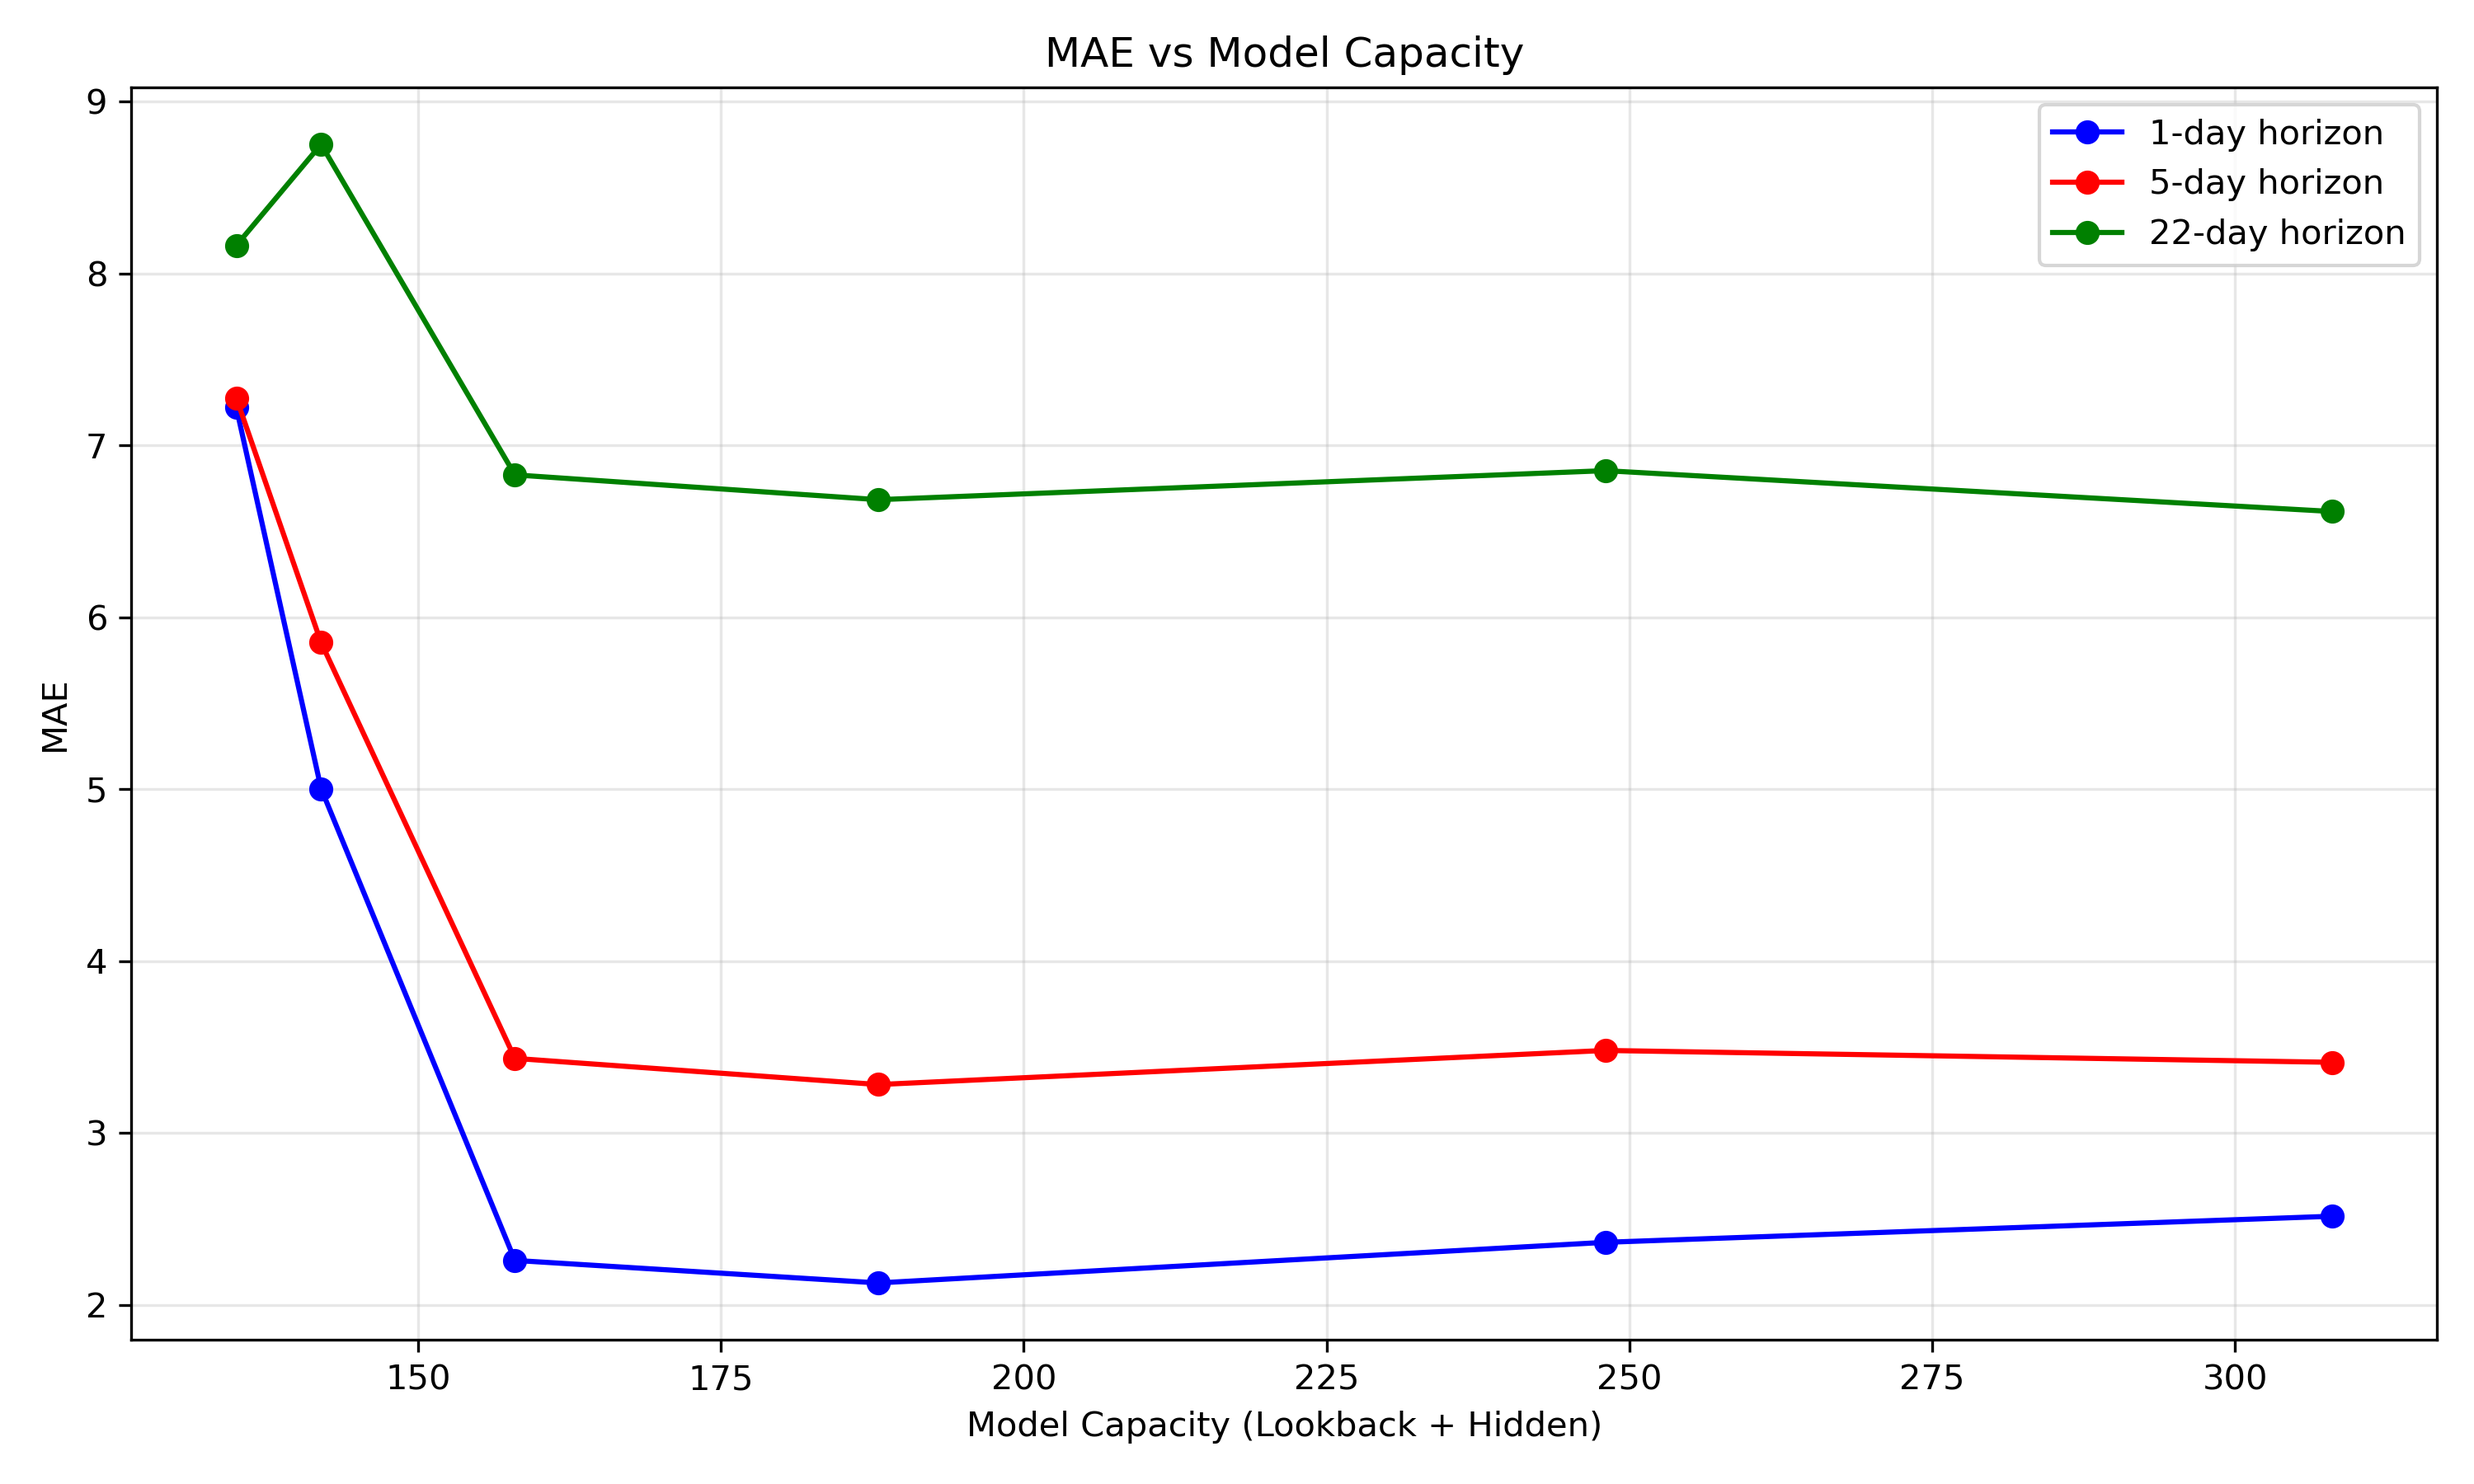
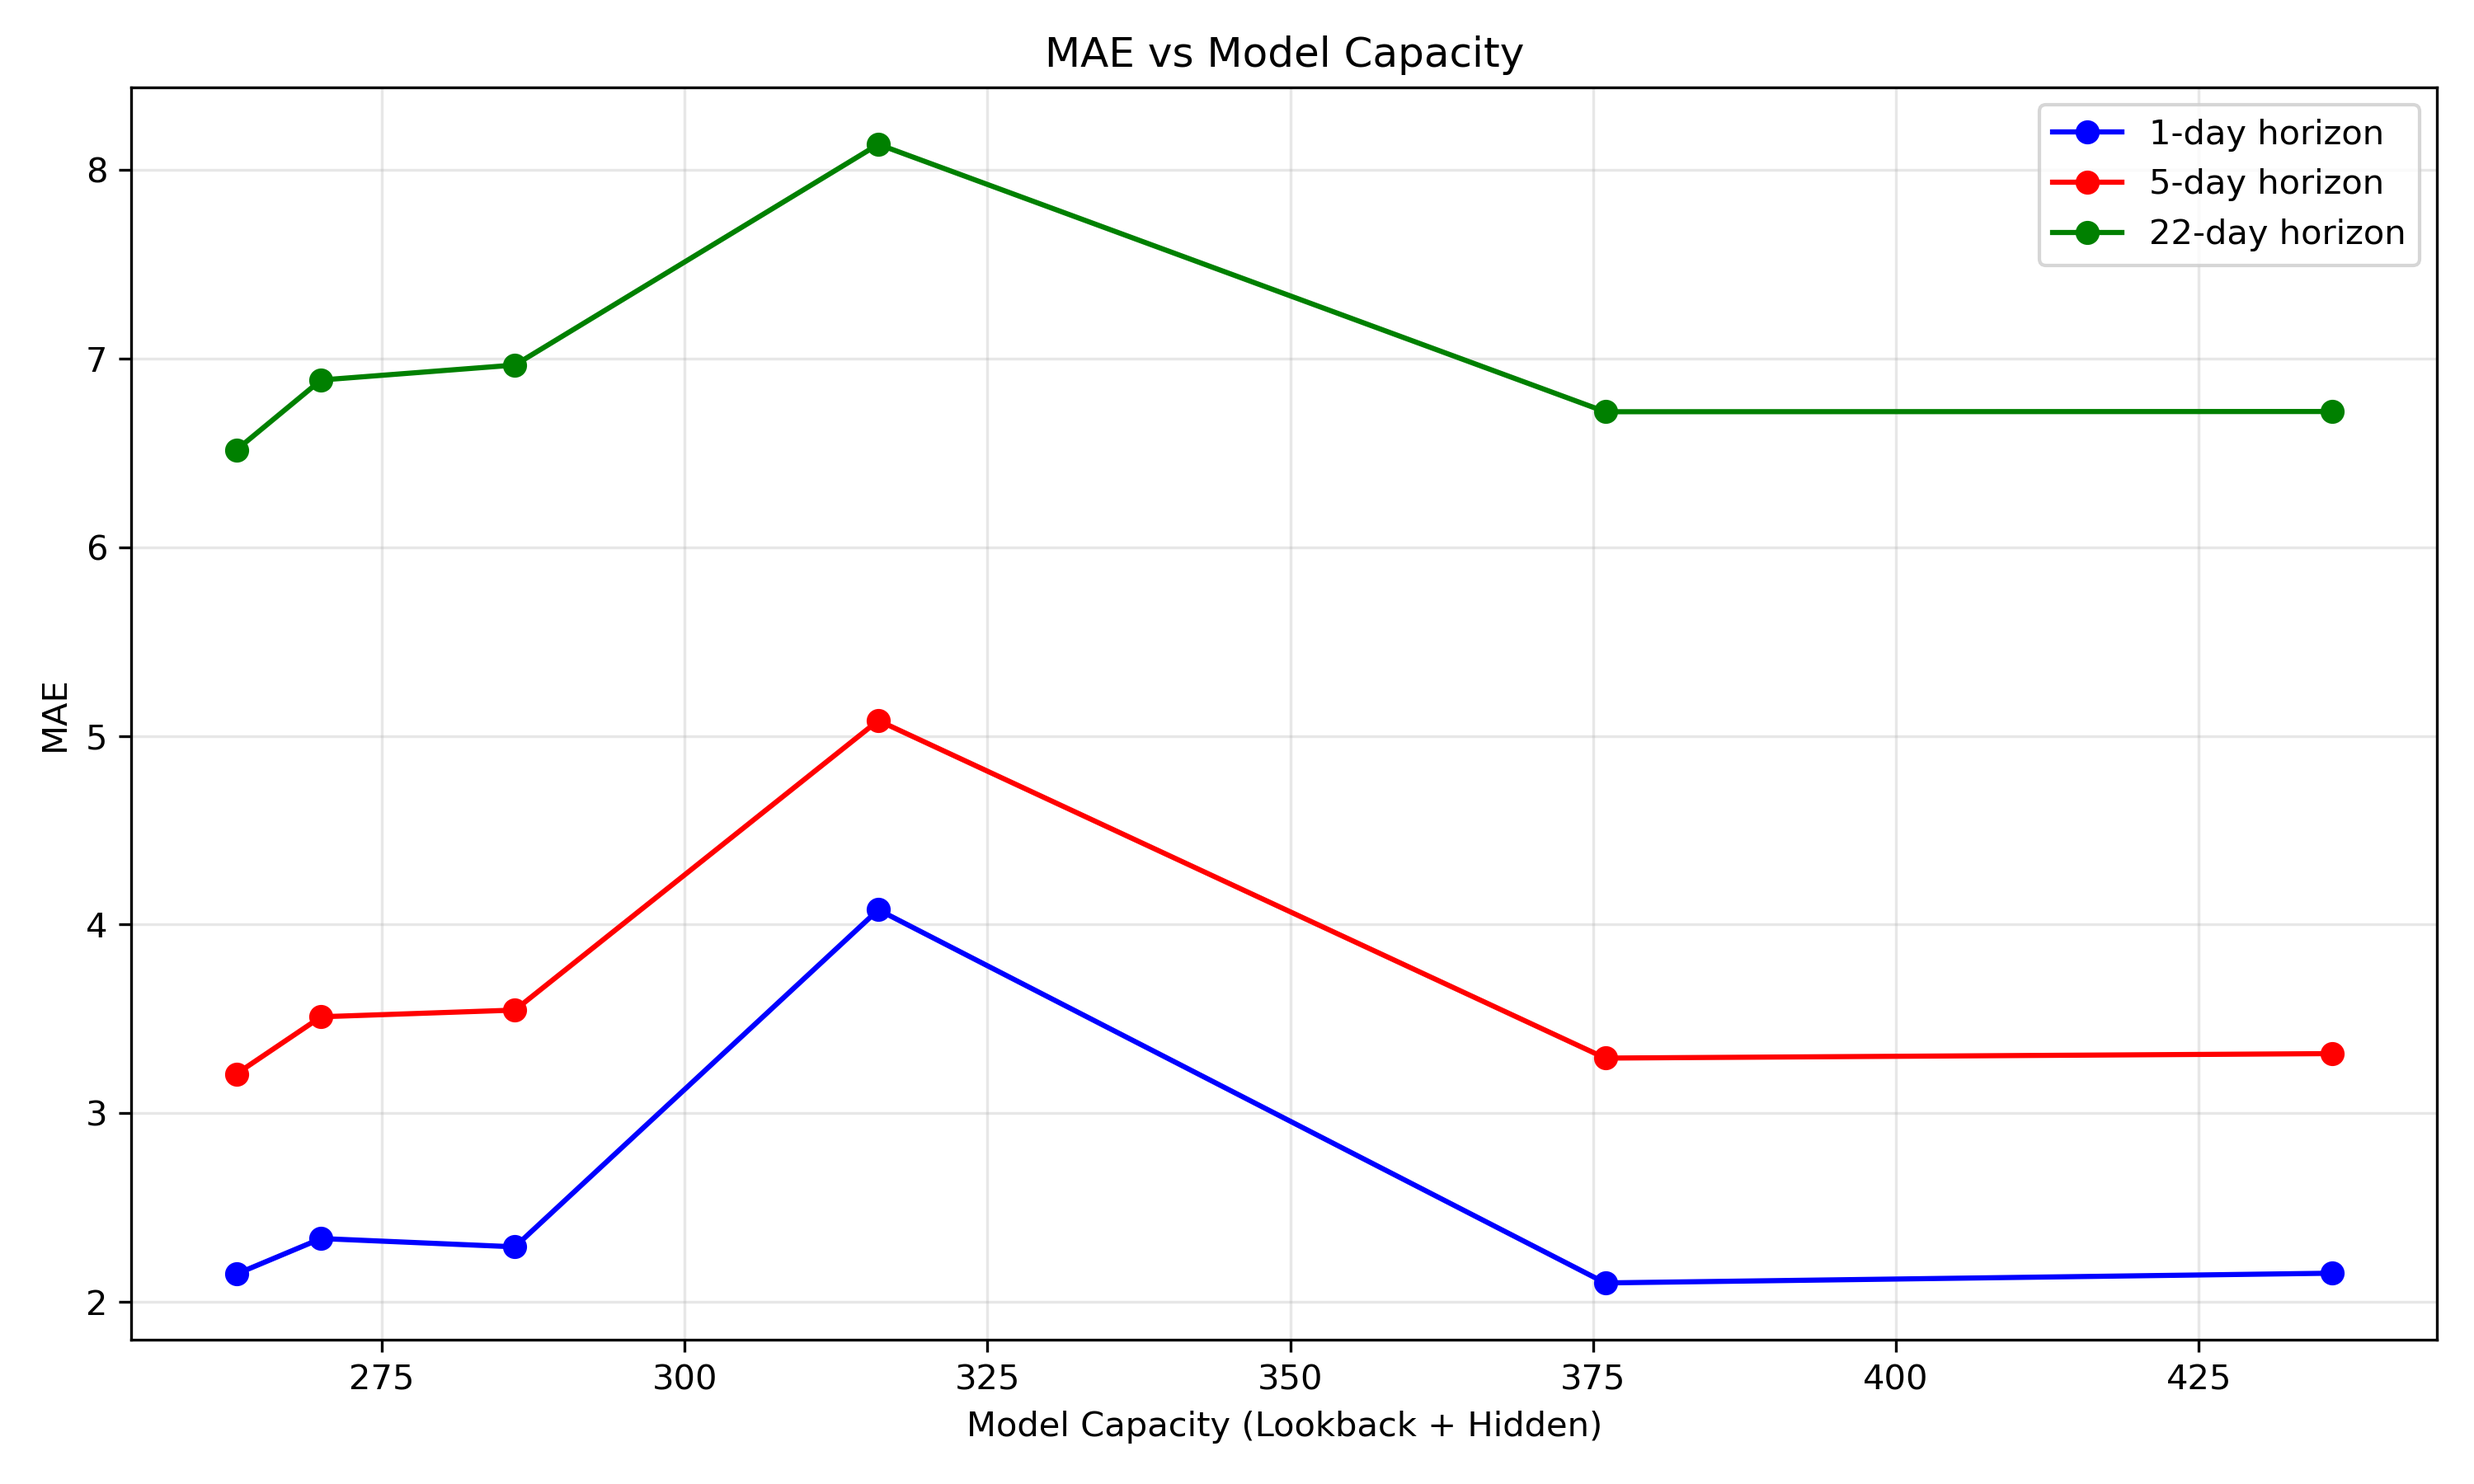
lots of svr fixes

diff --git a/stacked-lookback.py b/stacked-lookback.py
@@ -4,7 +4,7 @@ import numpy  as np
 import pandas as pd
 import torch, torch.nn as nn
 from datetime               import datetime
-from sklearn.model_selection import TimeSeriesSplit
+from sklearn.model_selection import TimeSeriesSplit, GridSearchCV
 from sklearn.preprocessing  import MinMaxScaler, StandardScaler
 from sklearn.svm            import SVR
 from sklearn.metrics        import mean_squared_error, mean_absolute_error
@@ -19,7 +19,7 @@ device = "cuda" if torch.cuda.is_available() else "cpu"
 print(f"[INIT]  device={device}")
 
 SEQ_SET    = [7, 14, 30, 60, 120, 180]
-HIDDEN_SET = [128, 128, 128, 128, 128, 128]
+HIDDEN_SET = [256, 256, 256, 256, 256, 256]
 EPOCHS     = 60
 SPLIT_DATE = datetime(2017, 8, 4)
 CSV_FILE   = "wti_daily.csv"
@@ -122,6 +122,8 @@ for j, (L, H) in enumerate(zip(SEQ_SET, HIDDEN_SET), 1):
     model = PriceLSTM(H)
     total_params = sum(p.numel() for p in model.parameters())
     print(f"Total params: {total_params}")
+    print(f"Trainset size: {len(X_tr):,}  Testset size: {len(X_te):,}")
+    print(f"Model Capacity to Trainset Ratio: {total_params/len(X_tr):.2f}")
     net = fit_lstm(model, X_tr, y_tr, tag=f"L{L}h{H}")
     with torch.no_grad():
         train_meta[:, j-1] = net(torch.tensor(X_tr, dtype=torch.float32,
@@ -131,9 +133,31 @@ for j, (L, H) in enumerate(zip(SEQ_SET, HIDDEN_SET), 1):
         base_preds.append(test_meta[:, j-1].copy())
         
 # SVR stack trained on aligned TRAIN meta 
-svr = SVR(kernel="rbf", C=3, gamma="scale", epsilon=0.1)
-svr.fit(train_meta, y_train_max.ravel())
-stack_pred_scaled = svr.predict(test_meta)
+# svr = SVR(kernel="rbf", C=10, gamma="scale", epsilon=0.1)
+# svr.fit(train_meta, y_train_max.ravel())
+# stack_pred_scaled = svr.predict(test_meta)
+
+# scale to -1,1 for SVR
+x_scaler = StandardScaler().fit(train_meta)                # features
+y_scaler = StandardScaler().fit(y_train_max.reshape(-1,1)) # target
+X_tr = x_scaler.transform(train_meta)
+X_te = x_scaler.transform(test_meta)
+y_tr = y_scaler.transform(y_train_max.reshape(-1,1)).ravel()
+
+# svr = SVR(kernel="rbf", C=3, gamma="scale", epsilon=0.1)
+# svr.fit(X_tr, y_tr)
+# stack_pred_scaled = y_scaler.inverse_transform(
+#         svr.predict(X_te).reshape(-1,1)
+# ).squeeze()
+
+param = {"C":[0.3, 1, 3, 10], "gamma":[0.1, 0.5, 1.0], "epsilon":[0.01,0.05,0.1]}
+gcv   = GridSearchCV(SVR(kernel="rbf"), param,
+                     cv=TimeSeriesSplit(n_splits=5), scoring="neg_mean_absolute_error")
+gcv.fit(X_tr, y_tr.ravel())
+
+stack_pred_scaled = y_scaler.inverse_transform(
+        gcv.best_estimator_.predict(x_scaler.transform(test_meta)).reshape(-1,1)
+).squeeze()
 print("[STACK] SVR meta-learner trained.")
 
 # Multi-horizon metrics (1/5/22-day) 
@@ -250,25 +274,3 @@ for (L,H), (tr_pred, te_pred) in zip(zip(SEQ_SET,HIDDEN_SET),
 #           clr_train="purple", clr_test="red")
 save_plot("SVR_Stack", train_meta[:, -1], stack_pred_scaled,
           clr_train="purple", clr_test="red")
-
-# Combined plot with all models
-plt.figure(figsize=(12,6))
-plt.plot(df["Date"].values, df["Price"], label="Actual", color="black")
-for (L,H), (tr_pred, te_pred) in zip(zip(SEQ_SET,HIDDEN_SET), 
-                                     zip(train_meta.T, test_meta.T)):
-    tr_usd = scaler.inverse_transform(tr_pred.reshape(-1,1)).squeeze()
-    te_usd = scaler.inverse_transform(te_pred.reshape(-1,1)).squeeze()
-    plt.plot(df["Date"].iloc[max_L:split_idx], tr_usd,
-             label=f"LSTM{H} (train)", color="blue", linestyle="--")
-    plt.plot(test_dates, te_usd,
-             label=f"LSTM{H} (test)", color="purple", linestyle="--")
-plt.plot(test_dates, scaler.inverse_transform(stack_pred_scaled.reshape(-1,1)).squeeze(),
-         label="SVR Stack (test)", color="red", linestyle="--")
-plt.axvline(x=SPLIT_DATE, color='r', linestyle='--', alpha=0.5)
-plt.title("All models - aligned train & test predictions")
-plt.xlabel("Date"); plt.ylabel("WTI (USD)")
-plt.legend(); plt.tight_layout()
-fn = os.path.join(FIG_DIR, "aligned_all_models.png")
-plt.savefig(fn, dpi=300); plt.close()
-print(f"[PLOT] saved {fn}")
-
